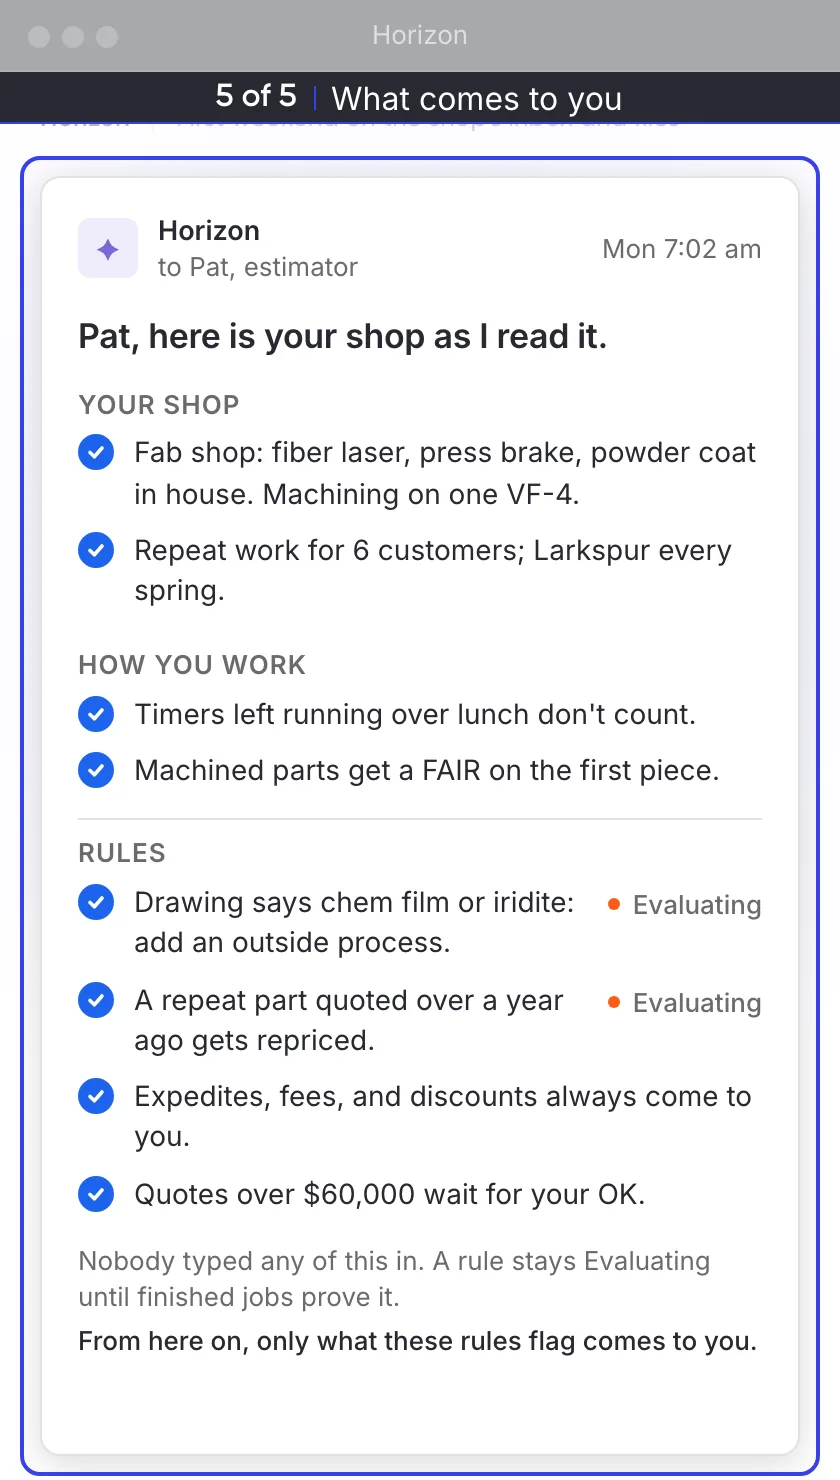
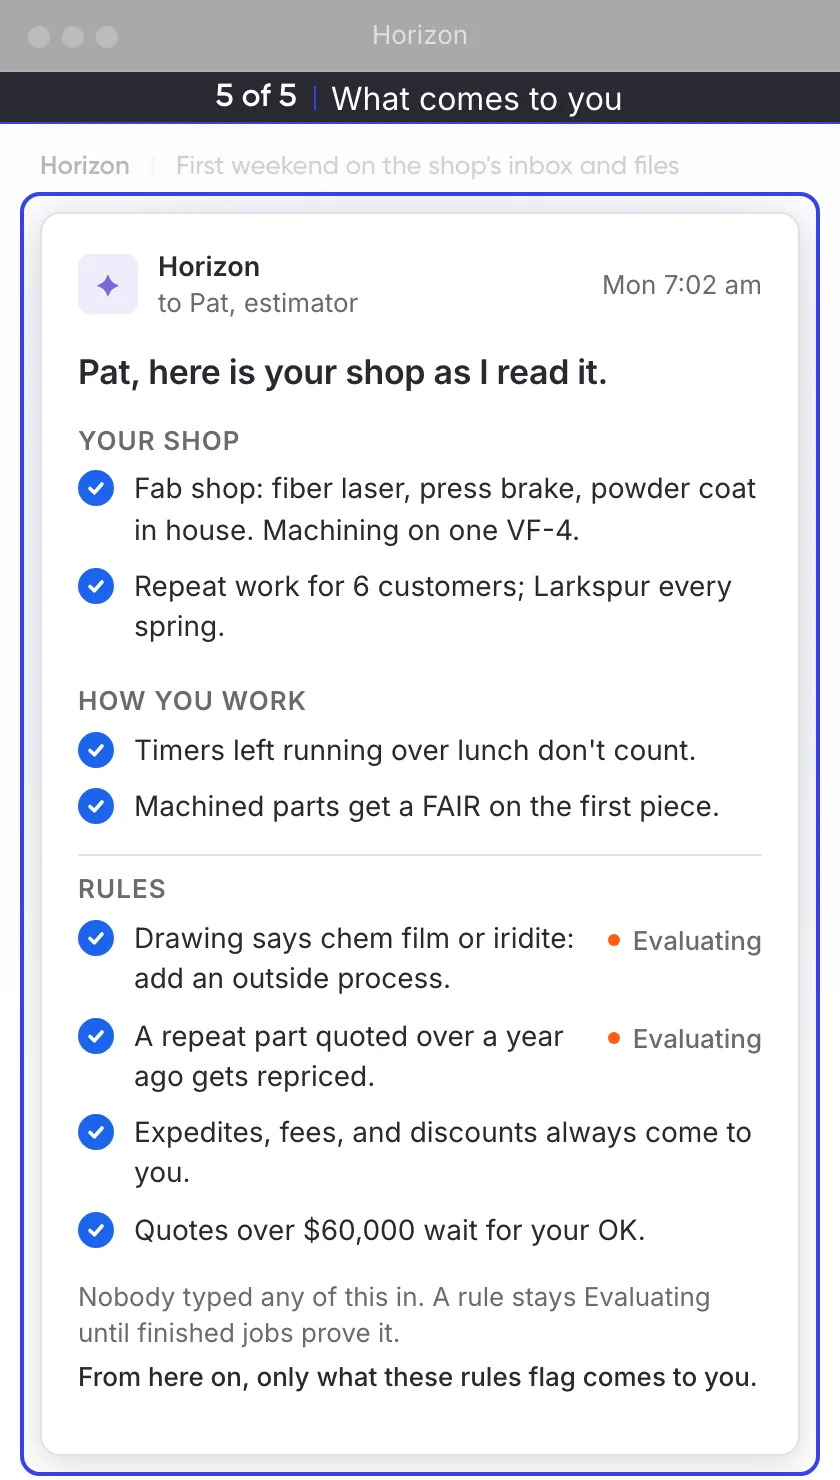
horizon overnight loop: phone title row clears the now-line bar; phone poster re-rendered

Changed region(s): [[0.031, 0.0932, 0.9905, 0.9635], [0.8357, 0.2797, 0.8976, 0.3419]]

diff --git a/horizon/overnight-reveal/index.html b/horizon/overnight-reveal/index.html
@@ -200,8 +200,8 @@
 .hz-overnight-reveal .hz-now b{ font-family:'Gilroy','Inter',sans-serif; font-weight:600; font-variant-numeric:tabular-nums; }
 .hz-overnight-reveal .hz-now b::after{ content:''; display:inline-block; width:1px; height:12px; background:#3840EA; margin:0 0 -2px 8px; }
 .hz-overnight-reveal.is-phone .hz-now{ left:0; right:0; top:36px; height:26px; border-radius:0; border-width:0 0 1px; justify-content:center; font-size:16px; }
-.hz-overnight-reveal.is-phone .hz-overnight-reveal-title{ top:76px; }
-.hz-overnight-reveal.is-phone .hz-overnight-reveal-left, .hz-overnight-reveal.is-phone .hz-overnight-reveal-right{ top:106px; height:622px; }
+.hz-overnight-reveal.is-phone .hz-overnight-reveal-stage .hz-overnight-reveal-title{ top:76px; }
+.hz-overnight-reveal.is-phone .hz-overnight-reveal-stage .hz-overnight-reveal-left, .hz-overnight-reveal.is-phone .hz-overnight-reveal-stage .hz-overnight-reveal-right{ top:106px; height:622px; }
 
 /* ---------- phone: a 420x700 stage showing the shop letter. The reading panel is hidden. ---------- */
 .hz-overnight-reveal.is-phone .hz-overnight-reveal-frame { aspect-ratio: 420/740; }
